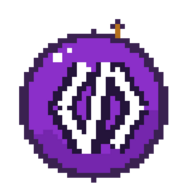
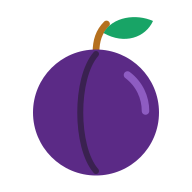
Brand assets from plumlang/branding ee17223
The Open Field mark replaces the pixel plum as the icon: favicon.ico,
apple-icon.png, icon.svg and the manifest icons are the rendered files
from branding's icons/. The social cards are og/plum.elixpo/default.png
(og.png) and docs.png (og-docs.png, used by every /docs/ page), both
1280 x 720. The pixel plum stays as public/plum-pixel.svg for playful
places. The maskable icon is dropped: branding has none yet.

diff --git a/lib/seo.ts b/lib/seo.ts
@@ -1,12 +1,22 @@
 import type { Metadata } from "next";
 import { CREATORS, SITE_NAME, SITE_URL, absoluteUrl } from "@/lib/site";
 
+// Social cards from plumlang/branding (og/plum.elixpo/), 1280 x 720.
 export const OG_IMAGE = {
   url: "/og.png",
-  width: 1200,
-  height: 630,
-  alt: "Plumlang: a small, fast, memory-safe programming language",
+  width: 1280,
+  height: 720,
+  alt: "Plumlang: easy to write, fast to run, safe by design",
 } as const;
+
+export const DOCS_OG_IMAGE = {
+  url: "/og-docs.png",
+  width: 1280,
+  height: 720,
+  alt: "Learn Plumlang: the tour, the specification, the standard library and every error code",
+} as const;
+
+type OgImage = typeof OG_IMAGE | typeof DOCS_OG_IMAGE;
 
 /**
  * Metadata for one page: title, description, canonical URL, Open Graph and
@@ -18,18 +28,23 @@ export function pageMetadata({
   path,
   type = "website",
   absoluteTitle = false,
+  image = path.startsWith("/docs/") ? DOCS_OG_IMAGE : OG_IMAGE,
+  markdown,
 }: {
   title: string;
   description: string;
   path: string;
   type?: "website" | "article";
   absoluteTitle?: boolean;
+  image?: OgImage;
+  /** The path of the page's Markdown copy, announced as an alternate. */
+  markdown?: string;
 }): Metadata {
   const socialTitle = absoluteTitle ? title : `${title} | ${SITE_NAME}`;
   return {
     title: absoluteTitle ? { absolute: title } : title,
     description,
-    alternates: { canonical: path },
+    alternates: markdown ? { canonical: path, types: { "text/markdown": markdown } } : { canonical: path },
     openGraph: {
       type,
       siteName: SITE_NAME,
@@ -37,13 +52,13 @@ export function pageMetadata({
       title: socialTitle,
       description,
       url: path,
-      images: [OG_IMAGE],
+      images: [image],
     },
     twitter: {
       card: "summary_large_image",
       title: socialTitle,
       description,
-      images: [{ url: OG_IMAGE.url, alt: OG_IMAGE.alt }],
+      images: [{ url: image.url, alt: image.alt }],
     },
   };
 }

diff --git a/app/manifest.ts b/app/manifest.ts
@@ -12,13 +12,12 @@ export default function manifest(): MetadataRoute.Manifest {
     start_url: "/",
     scope: "/",
     display: "standalone",
-    background_color: "#fcfafd",
-    theme_color: "#8b2fc9",
+    background_color: "#F6F5F0",
+    theme_color: "#5B2A86",
     categories: ["developer", "education", "productivity"],
     icons: [
       { src: "/icon-192.png", sizes: "192x192", type: "image/png" },
       { src: "/icon-512.png", sizes: "512x512", type: "image/png" },
-      { src: "/icon-maskable-512.png", sizes: "512x512", type: "image/png", purpose: "maskable" },
     ],
   };
 }
